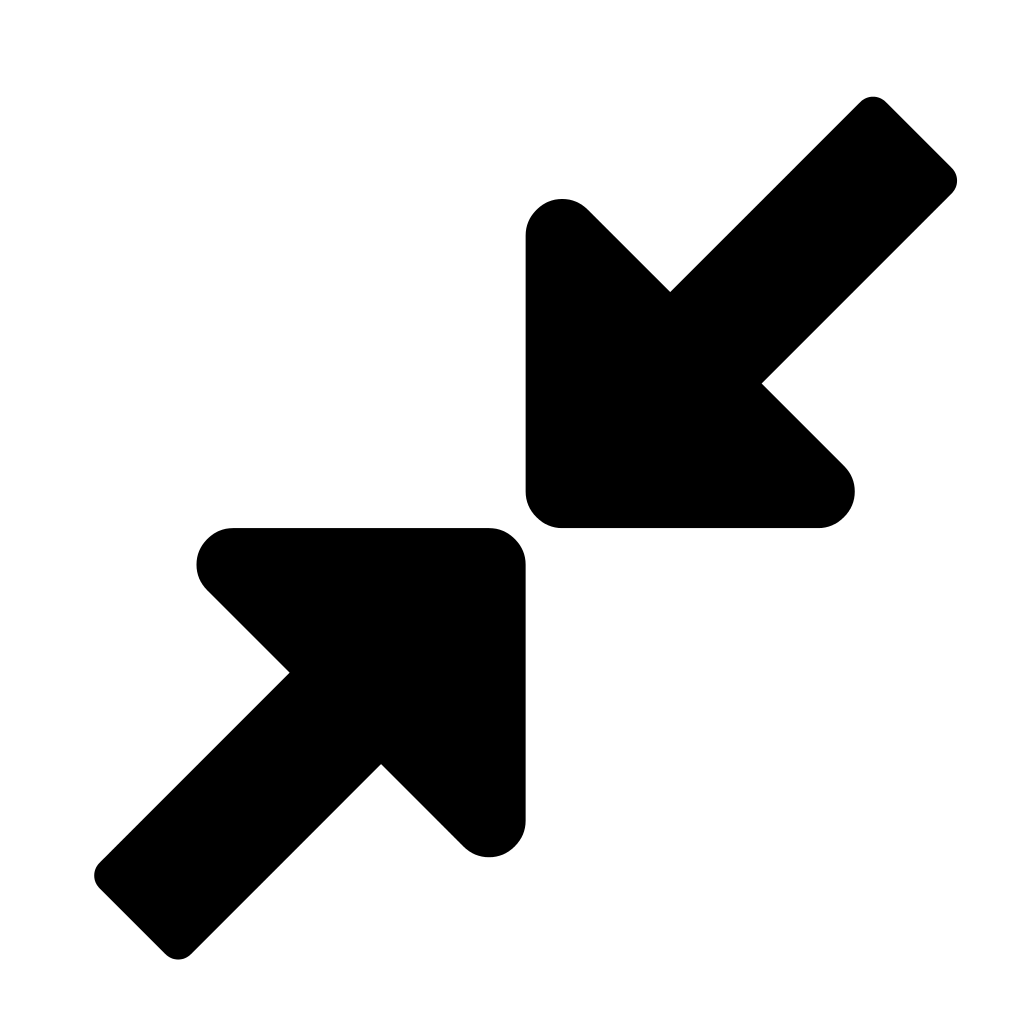
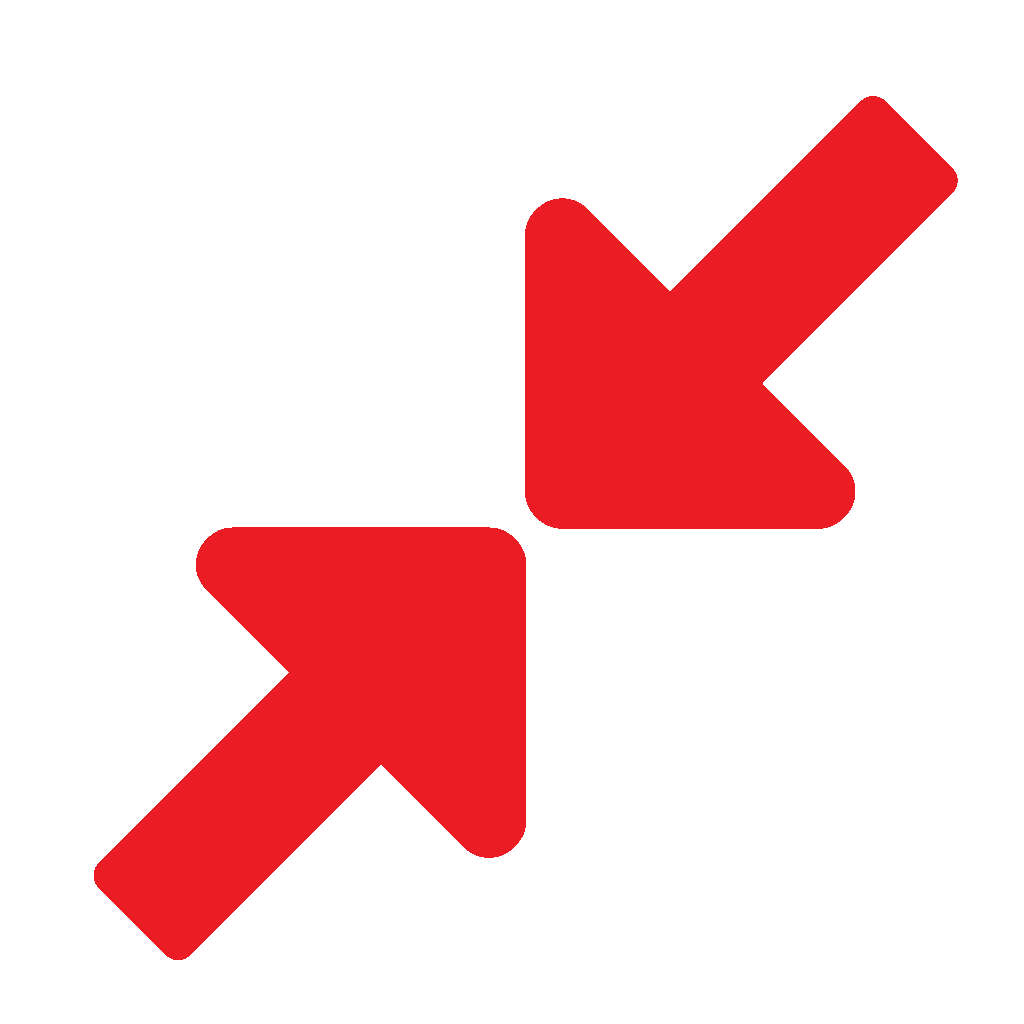
corrections paddle size

Changed region(s): [[0.0938, 0.0938, 0.9375, 0.9375]]

diff --git a/src/special_paddle.js b/src/special_paddle.js
@@ -36,6 +36,7 @@ export default class SpecialPaddle {
     // after update
     draw(context) {
         if (this.drawerPaddleSmaller) {
+            console.log("Alert")
             context.drawImage(this.img_paddle_smaller, this.position.x, this.position.y, this.size, this.size);
             context.font = "bold 24px Arial";
         }
@@ -49,8 +50,9 @@ export default class SpecialPaddle {
     //before draw
     update() {
         if (this.counter === this.time) {
-            this.index = Math.floor(Math.random() * 3) + 1;
+            this.index = Math.floor(Math.random() * 2) + 1; //problem as you took factor *3 -> out of bounce so default was called that did nothing, and also the color of the arrows were black
         }
+
         switch (this.index) {
             case 1:
                 this.paddleSmaller();
